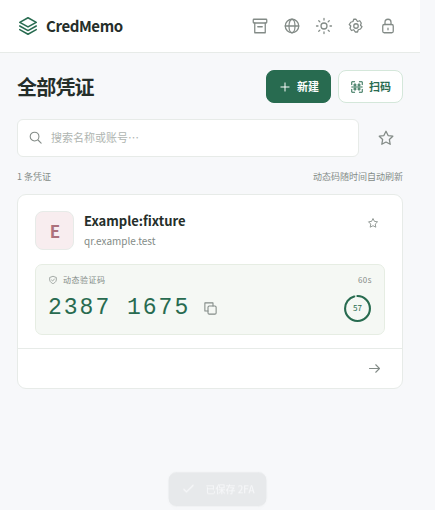
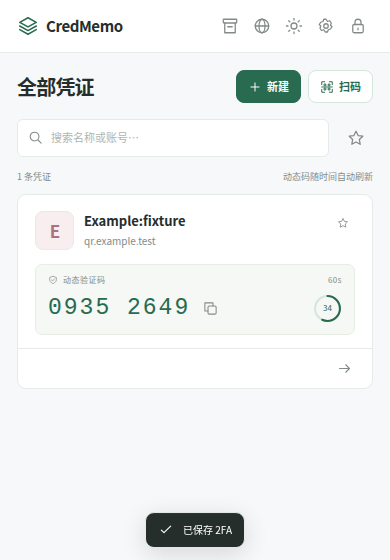
chore：清理旧项目文件并缩小插件弹窗

diff --git a/extension/public/static/extension.css b/extension/public/static/extension.css
@@ -8,10 +8,10 @@
 .login-choice svg{width:17px;height:17px;color:var(--green)}
 .fill-button{margin-left:auto;background:var(--green-wash);border-radius:4px;padding:3px 10px}
 .fill-button+.icon-button{margin-left:2px}
-html[data-surface="popup"]{width:420px;height:560px;overflow:hidden}
+html[data-surface="popup"]{width:390px;height:560px;overflow:hidden}
 html[data-surface="popup"][data-view="unlock"]{height:350px}
 html[data-surface="popup"][data-view="setup"]{height:465px}
-html[data-surface="popup"] body{width:420px;height:100%;max-height:100dvh;overflow:hidden}
+html[data-surface="popup"] body{width:100%;height:100%;max-height:100dvh;overflow:hidden}
 html[data-surface="popup"] .auth-screen{display:block;height:100%;overflow-y:auto}
 html[data-surface="popup"] .auth-panel{min-height:100%;padding:32px 28px 20px}
 html[data-surface="popup"] .auth-form{padding:0;max-width:none}
@@ -56,8 +56,8 @@ html[data-surface="popup"] .empty-state h2{font-size:14px}
 html[data-surface="popup"] .empty-state p{font-size:11px}
 html[data-surface="popup"] .empty-state>.empty-icon{width:42px;height:42px;border-radius:12px;margin-bottom:12px}
 html[data-surface="popup"] .modal-overlay{padding:16px}
-html[data-surface="popup"] .modal{width:100%;max-width:366px;max-height:min(430px,calc(100dvh - 32px));border-radius:12px}
-html[data-surface="popup"] .modal.preferences{max-width:344px}
+html[data-surface="popup"] .modal{width:100%;max-width:336px;max-height:min(430px,calc(100dvh - 32px));border-radius:12px}
+html[data-surface="popup"] .modal.preferences{max-width:324px}
 html[data-surface="popup"] .modal-header{flex-shrink:0;padding:12px 15px 10px}
 html[data-surface="popup"] .modal-header h2{font-size:15px}
 html[data-surface="popup"] .modal-body{padding:12px 15px 15px}

diff --git a/tests/extension/fill_acceptance.py b/tests/extension/fill_acceptance.py
@@ -56,7 +56,7 @@ class Popup:
 def run():
     with sync_playwright() as p, tempfile.TemporaryDirectory(prefix='credmemo-fill-') as profile:
         ctx = p.chromium.launch_persistent_context(profile, executable_path=CHROME, headless=True,
-            args=['--no-sandbox', '--enable-unsafe-extension-debugging', f'--disable-extensions-except={ROOT / "dist"}', f'--load-extension={ROOT / "dist"}'], viewport={'width': 1280, 'height': 900})
+            args=['--no-sandbox', '--enable-unsafe-extension-debugging', '--screen-info={1280x900}', f'--disable-extensions-except={ROOT / "dist"}', f'--load-extension={ROOT / "dist"}'], viewport={'width': 1280, 'height': 900})
         ctx.set_default_timeout(12000)
         worker = ctx.service_workers[0] if ctx.service_workers else ctx.wait_for_event('serviceworker')
         base = worker.url.rsplit('/', 1)[0] + '/'
@@ -106,8 +106,11 @@ def run():
             return popup
 
         popup = open_popup()
+        dimensions = popup.evaluate('({viewport:innerWidth,html:document.documentElement.scrollWidth,body:document.body.scrollWidth})')
+        assert dimensions == {'viewport': 390, 'html': 390, 'body': 390}, dimensions
         popup.wait('!document.querySelector("[data-action=copy-code]").disabled')
-        target = request('target')
+        # 无头浏览器打开原生弹窗后可能没有焦点窗口，按最近浏览器窗口定位测试页。
+        target = client.evaluate('chrome.windows.getLastFocused().then(window=>chrome.tabs.query({active:true,windowId:window.id})).then(([tab])=>({id:tab.id,origin:new URL(tab.url).origin}))')
         target_id = target['id']
         assert target['origin'] == 'https://login.example.test'
         assert popup.evaluate('document.querySelectorAll(".entry-card").length') == 1
@@ -128,8 +131,9 @@ def run():
         tabs_before = client.evaluate('chrome.tabs.query({}).then(tabs=>tabs.map(tab=>tab.id).sort())')
         popup.evaluate('document.querySelector(".heading-actions [data-action=new]").click()')
         popup.wait('!!document.querySelector("#entry-form")')
-        assert popup.evaluate('document.querySelector(".modal").getBoundingClientRect().width<=366')
+        assert popup.evaluate('document.querySelector(".modal").getBoundingClientRect().width<=336')
         assert popup.evaluate('document.querySelector(".modal").getBoundingClientRect().height<=430')
+        assert popup.evaluate('document.querySelector(".modal-body").scrollWidth<=document.querySelector(".modal-body").clientWidth')
         assert popup.evaluate('document.querySelectorAll("#entry-form input[type=radio],.filter-tabs").length===0')
         assert popup.evaluate('(()=>{const field=document.querySelector(".token-item [data-field=secret]").getBoundingClientRect(),body=document.querySelector(".modal-body").getBoundingClientRect();return field.top>=body.top&&field.bottom<=body.bottom})()')
         popup.evaluate('document.querySelector("#entry-title").value="Popup 2FA fixture";document.querySelector(".token-item [data-field=secret]").value="GEZDGNBVGY3TQOJQGEZDGNBVGY3TQOJQ"')
@@ -150,6 +154,7 @@ def run():
         (screenshot.parent / 'popup-settings.png').write_bytes(base64.b64decode(popup.send('Page.captureScreenshot', {'format': 'png'})['data']))
         dimensions = popup.evaluate('({height:document.querySelector(".modal").getBoundingClientRect().height,width:document.querySelector(".modal").getBoundingClientRect().width})')
         assert dimensions['height'] < 340, dimensions
+        assert popup.evaluate('document.querySelector(".modal-body").scrollWidth<=document.querySelector(".modal-body").clientWidth')
         popup.evaluate('const select=document.querySelector("#theme-select");select.value="dark";select.dispatchEvent(new Event("change",{bubbles:true}))')
         assert popup.evaluate('document.documentElement.dataset.theme') == 'dark'
         popup.evaluate('document.querySelector("#modal-root [data-action=close-modal]").click()')
@@ -162,6 +167,7 @@ def run():
         popup.evaluate('document.querySelector(".topbar [data-action=transfer]").click()')
         popup.wait('!!document.querySelector("#backup-form")')
         assert popup.evaluate('document.querySelector(".modal").getBoundingClientRect().height<440')
+        assert popup.evaluate('document.querySelector(".modal-body").scrollWidth<=document.querySelector(".modal-body").clientWidth')
         (screenshot.parent / 'popup-backup.png').write_bytes(base64.b64decode(popup.send('Page.captureScreenshot', {'format': 'png'})['data']))
         popup.evaluate(f'document.querySelector("#backup-password").value={json.dumps(backup_password)};document.querySelector("#backup-confirm").value={json.dumps(backup_password)};document.querySelector("#backup-form button[type=submit]").click()')
         popup.wait('!document.querySelector("#backup-form")')

diff --git a/tests/extension/browser_acceptance.py b/tests/extension/browser_acceptance.py
@@ -23,7 +23,7 @@ def run():
             ctx = p.chromium.launch_persistent_context(
                 profile, executable_path=CHROME, headless=True, accept_downloads=True,
                 args=['--no-sandbox', f'--disable-extensions-except={ROOT / "dist"}', f'--load-extension={ROOT / "dist"}'],
-                viewport={'width': 420, 'height': 600}, locale='zh-CN')
+                viewport={'width': 390, 'height': 600}, locale='zh-CN')
             ctx.set_default_timeout(12000)
             ctx.on('page', lambda tab: tab.on('pageerror', lambda error: errors.append(str(error))))
             ctx.on('request', lambda request: external.append(request.url) if request.url.startswith(('https://', 'http://')) else None)
@@ -145,6 +145,7 @@ def run():
         print('PASS: actual clipboard contains selected values', flush=True)
 
         page.locator('.main-content').evaluate('node=>node.scrollTop=0')
+        assert page.locator('.main-content').evaluate('node=>node.scrollWidth===node.clientWidth')
         page.screenshot(path=str(ARTIFACTS / 'popup-light.png'))
         page.locator('#header-avatar').click()
         page.locator('#theme-select').select_option('dark')
@@ -153,6 +154,7 @@ def run():
         expect(page.locator('#modal-title')).to_have_text('Preferences')
         close_modal()
         expect(page.locator('#page-title')).to_have_text('All credentials')
+        assert page.locator('.main-content').evaluate('node=>node.scrollWidth===node.clientWidth')
         page.screenshot(path=str(ARTIFACTS / 'popup-dark.png'))
         page.locator('#header-avatar').click()
         page.locator('#language-select').select_option('zh')
@@ -167,10 +169,10 @@ def run():
         print('PASS: visible TOTP refreshes across real time boundary', flush=True)
 
         awaitable_popup = ctx.new_page()
-        awaitable_popup.set_viewport_size({'width': 420, 'height': 600})
+        awaitable_popup.set_viewport_size({'width': 390, 'height': 600})
         awaitable_popup.goto(base + 'popup.html')
         expect(awaitable_popup.locator('.entry-card')).to_have_count(3)
-        assert awaitable_popup.evaluate('document.documentElement.scrollWidth') == 420
+        assert awaitable_popup.evaluate('document.documentElement.scrollWidth') == 390
         awaitable_popup.screenshot(path=str(ARTIFACTS / 'popup.png'), full_page=True)
         awaitable_popup.close()
         page.bring_to_front()

diff --git a/tests/extension/page_scan_acceptance.py b/tests/extension/page_scan_acceptance.py
@@ -22,7 +22,7 @@ def run():
     <img id="qr" width="360" height="360" src="{images['valid']}" alt="公开测试二维码"></main></body></html>'''
     with sync_playwright() as p, tempfile.TemporaryDirectory(prefix='credmemo-page-scan-') as profile:
         ctx = p.chromium.launch_persistent_context(profile, executable_path=CHROME, headless=True,
-            args=['--no-sandbox', '--enable-unsafe-extension-debugging', f'--disable-extensions-except={ROOT/"dist"}', f'--load-extension={ROOT/"dist"}'],
+            args=['--no-sandbox', '--enable-unsafe-extension-debugging', '--screen-info={1280x900}', f'--disable-extensions-except={ROOT/"dist"}', f'--load-extension={ROOT/"dist"}'],
             viewport={'width':1280,'height':900}, device_scale_factor=2, locale='zh-CN')
         ctx.set_default_timeout(12000)
         errors=[]
@@ -112,6 +112,7 @@ def run():
         assert target
         view=Popup(cdp,client,target['targetId'])
         view.wait('document.querySelector("[data-action=copy-code]")?.disabled===false&&!document.querySelector(".filter-tabs")')
+        assert view.evaluate('innerWidth===390&&document.querySelector(".main-content").scrollWidth===document.querySelector(".main-content").clientWidth')
         (shots/'page-result.png').write_bytes(base64.b64decode(view.send('Page.captureScreenshot',{'format':'png'})['data']))
         assert PUBLIC_SECRET not in json.dumps(client.evaluate('chrome.storage.local.get(null)'))
         print('PASS: reversed selection at 2x scale auto-saves encrypted TOTP and returns to the unified list',flush=True)
